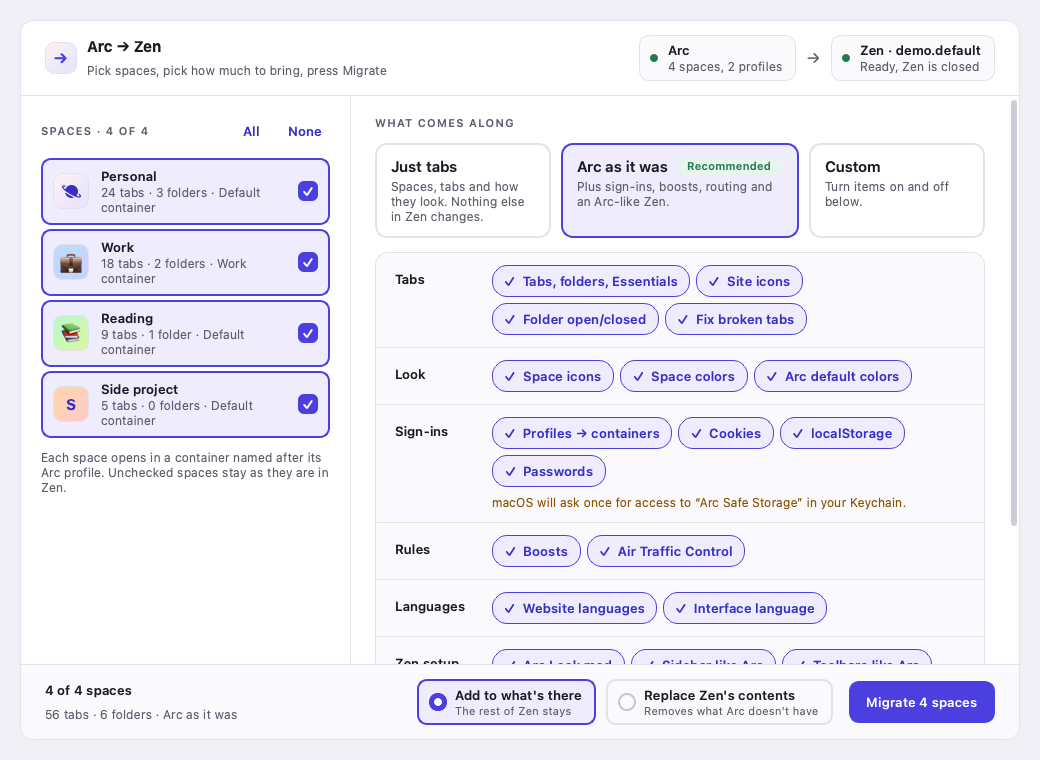
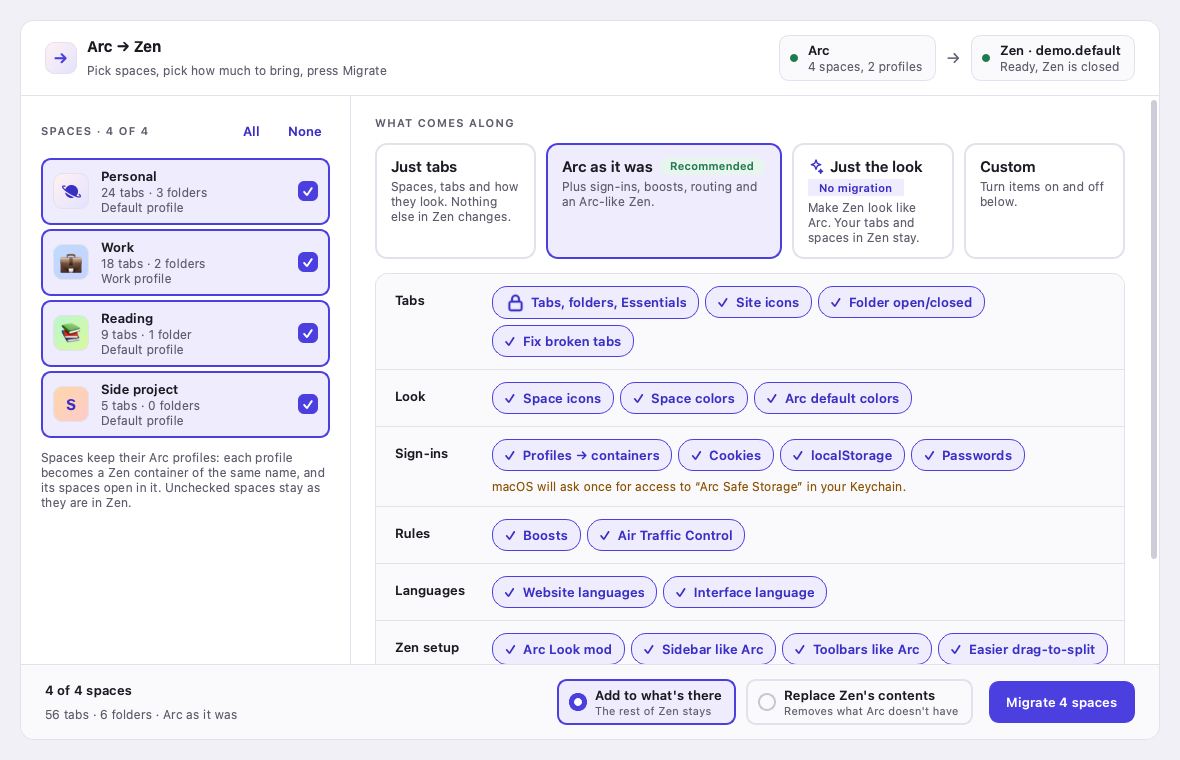
Guide the user when Zen is not found
Without a Zen profile the window now says so: the Zen card in the header is
tinted, a note above the presets offers Download Zen and Choose profile
folder, the footer explains what to do, and the presets, items and Migrate
button stay inactive until a profile is there. A folder without a profile
gets its own message. Coming back to the window looks for Zen, and for Arc
when it was missing, again, so installing and opening Zen is enough.

The README screenshots show the wider window with the Just the look preset.

diff --git a/src/arc2zen/desktop.py b/src/arc2zen/desktop.py
@@ -21,8 +21,8 @@ if sys.stderr is None:
 
 try:
     import psutil
-    from PySide6.QtCore import QByteArray, QEvent, QPoint, QRect, QRectF, QSize, Qt, QThread, QTimer, Signal
-    from PySide6.QtGui import QColor, QIcon, QPainter, QPalette, QPixmap
+    from PySide6.QtCore import QByteArray, QEvent, QPoint, QRect, QRectF, QSize, Qt, QThread, QTimer, QUrl, Signal
+    from PySide6.QtGui import QColor, QDesktopServices, QIcon, QPainter, QPalette, QPixmap
     from PySide6.QtSvg import QSvgRenderer
     from PySide6.QtWidgets import (
         QApplication,
@@ -80,6 +80,7 @@ OK_SOFT = "#e8f5ee"
 OK_LINE = "#bfe3cf"
 WARN = "#8a5100"
 WARN_SOFT = "#fdf3e3"
+WARN_LINE = "#f0d7a8"
 # Notes on a finished run: in the accent color, part of the app rather than an alarm
 NOTE_SOFT = "#f5f4fe"
 NOTE_LINE = "#dcd8fb"
@@ -114,6 +115,9 @@ QFrame#Confirm {{ background: {DANGER_SOFT}; border: 1px solid {DANGER_LINE}; bo
 QFrame#Stat {{ background: {CARD}; border: 1px solid {LINE}; border-radius: 12px; }}
 QFrame#Endpoint {{ background: {CARD}; border: 1px solid {LINE}; border-radius: 10px; }}
 QFrame#Endpoint:hover, QFrame#Endpoint:focus {{ border-color: {ACCENT}; }}
+QFrame#Endpoint[tone="warn"] {{ background: {WARN_SOFT}; border-color: {WARN_LINE}; }}
+QFrame#Endpoint[tone="danger"] {{ background: {DANGER_SOFT}; border-color: {DANGER}; }}
+QFrame#Warning {{ background: {WARN_SOFT}; border: 1px solid {WARN_LINE}; border-radius: 12px; }}
 QFrame#SpaceRow {{ background: transparent; border: 1.5px solid transparent; border-radius: 10px; }}
 QFrame#SpaceRow[checked="true"] {{ background: {ACCENT_SOFT}; border-color: {ACCENT}; }}
 QFrame#SpaceRow:focus {{ border-color: {ACCENT}; }}
@@ -148,6 +152,7 @@ QPushButton#Chip {{ background: transparent; border: 1px solid {LINE}; border-ra
     color: {MUTED}; font-weight: 500; padding: 5px 12px; min-height: 20px; }}
 QPushButton#Chip:hover {{ border-color: #b3afc2; }}
 QPushButton#Chip:checked {{ background: {ACCENT_SOFT}; border-color: {ACCENT}; color: {ACCENT_TEXT}; font-weight: 600; }}
+QPushButton#Chip:disabled {{ background: transparent; border-color: {LINE}; color: #b5b2c2; }}
 QPushButton#Chip[dimmed="true"] {{ background: transparent; border-color: {LINE}; color: #b5b2c2; }}
 QScrollBar:vertical {{ background: transparent; width: 10px; margin: 4px 2px; }}
 QScrollBar::handle:vertical {{ background: #cfccda; border-radius: 3px; min-height: 32px; }}
@@ -595,11 +600,14 @@ class Endpoint(Clickable):
         layout.addWidget(self.dot)
         layout.addLayout(text_column(self.title, self.subtitle))
 
-    def set_status(self, title: str, subtitle: str, color: str, tooltip: str) -> None:
+    def set_status(self, title: str, subtitle: str, color: str, tooltip: str, tone: str = "") -> None:
+        """tone "warn" or "danger" tints the card when what it stands for is missing."""
         self.dot.setStyleSheet(f"background: {color}; border-radius: 4px;")
         self.title.setText(title)
         self.subtitle.setText(subtitle)
         self.setToolTip(tooltip)
+        self.setProperty("tone", tone)
+        restyle(self)
 
 
 class SpaceRow(Clickable):
@@ -719,10 +727,10 @@ class PresetCard(Clickable):
         layout.addStretch(1)
         self.setMinimumHeight(76)
 
-    def set_available(self, available: bool) -> None:
-        """Without Arc only "just the look" can run."""
+    def set_available(self, available: bool, reason: str = "") -> None:
+        """Without Arc only "just the look" can run; without Zen nothing can. reason replaces the hint."""
         self.setEnabled(available)
-        self.hint_label.setText(self.hint if available else "Needs Arc on this Mac.")
+        self.hint_label.setText(reason or self.hint)
         grey = "" if available else f" color: {OFF};"
         self.title_label.setStyleSheet("font-size: 15px; font-weight: 600;" + grey)
         self.hint_label.setStyleSheet(grey)
@@ -734,6 +742,10 @@ class ModeCard(Clickable):
     def __init__(self, title: str, subtitle: str, hint: str, danger: bool = False):
         super().__init__("Mode", title)
         self.danger = danger
+        # Faded while nothing can run, e.g. before Zen is found
+        self.fade = QGraphicsOpacityEffect(self)
+        self.fade.setOpacity(1.0)
+        self.setGraphicsEffect(self.fade)
         self.setProperty("danger", "true" if danger else "false")
         self.setToolTip(hint)
         self.radio = QLabel()
@@ -907,6 +919,7 @@ PRESETS = [
     ("look", "Just the look", "Make Zen look like Arc. Your tabs and spaces in Zen stay.", False),
     ("custom", "Custom", "Turn items on and off below.", False),
 ]
+ZEN_DOWNLOAD_URL = "https://zen-browser.app/download/"
 # The rows "just the look" shows; the others don't apply to it
 LOOK_ROWS = ("Look", "Zen setup", "Safety")
 ZEN_SETUP = [("arc_look_mod", "Arc Look mod"), ("sidebar_mode", "sidebar"), ("toolbar_layout", "toolbars"),
@@ -940,6 +953,8 @@ class MainWindow(QMainWindow):
         self.arc_ok = False
         self.arc_forced = False
         self.zen_spaces: set[str] = set()
+        # "ok", "missing" (no Zen profile on this Mac) or "wrong" (the chosen folder has none)
+        self.zen_state = "ok"
         # What the last run was, for its result screen
         self.run_look = False
         self.run_look_spaces = 0
@@ -975,7 +990,7 @@ class MainWindow(QMainWindow):
         self.zen_combo.currentTextChanged.connect(self.refresh_zen_status)
         self.reload_spaces()
         self.refresh_zen_status()
-        self.go_button.setFocus()
+        (self.download_zen if self.zen_state == "missing" else self.go_button).setFocus()
 
     # ----- building -------------------------------------------------------
 
@@ -1116,6 +1131,7 @@ class MainWindow(QMainWindow):
             self.chips[choice.key] = chip
         else:
             # Always moved: it stays on, shows a padlock and only explains itself
+            self.locked_chips.append(chip)
             chip.setText(" " + choice.label)
             chip.setIcon(QIcon(svg_pixmap(LOCK_SVG, ACCENT_TEXT, 12, max(2.0, self.devicePixelRatioF()))))
             chip.setChecked(True)
@@ -1150,6 +1166,30 @@ class MainWindow(QMainWindow):
         layout = QVBoxLayout(page)
         layout.setContentsMargins(24, 20, 24, 24)
         layout.setSpacing(14)
+        self.zen_banner = frame("Warning")
+        banner = QHBoxLayout(self.zen_banner)
+        banner.setContentsMargins(16, 14, 16, 14)
+        banner.setSpacing(14)
+        mark = QLabel("!")
+        mark.setFixedSize(36, 36)
+        mark.setAlignment(Qt.AlignCenter)
+        mark.setStyleSheet(f"background: {WINDOW}; border: 1px solid {WARN_LINE}; border-radius: 10px;"
+                           f" color: {WARN}; font-size: 18px; font-weight: 700;")
+        banner.addWidget(mark, 0, Qt.AlignTop)
+        self.zen_banner_title = label()
+        self.zen_banner_title.setStyleSheet("font-weight: 600;")
+        self.zen_banner_text = label("", "muted", wrap=True)
+        banner.addLayout(text_column(self.zen_banner_title, self.zen_banner_text), 1)
+        self.download_zen = QPushButton("Download Zen")
+        self.download_zen.setObjectName("Primary")
+        self.download_zen.clicked.connect(lambda: QDesktopServices.openUrl(QUrl(ZEN_DOWNLOAD_URL)))
+        banner.addWidget(self.download_zen, 0, Qt.AlignVCenter)
+        choose_zen = QPushButton("Choose profile folder…")
+        choose_zen.setObjectName("Accent")
+        choose_zen.clicked.connect(self.browse_zen)
+        banner.addWidget(choose_zen, 0, Qt.AlignVCenter)
+        layout.addWidget(self.zen_banner)
+
         layout.addWidget(label("WHAT COMES ALONG", "caps"))
 
         presets = QHBoxLayout()
@@ -1176,6 +1216,7 @@ class MainWindow(QMainWindow):
         layout.addWidget(self.look_note)
 
         self.chips: Dict[str, QPushButton] = {}
+        self.locked_chips: List[QPushButton] = []
         self.notes: List[tuple[QLabel, tuple]] = []
         card = frame("Card")
         rows = QVBoxLayout(card)
@@ -1506,9 +1547,16 @@ class MainWindow(QMainWindow):
             profile = resolve_zen_profile(text)
         except Exception:
             self.zen_spaces = set()
-            self.zen_endpoint.set_status("Zen", "Not a Zen profile", DANGER,
-                                         f"{text}\nChoose a profile folder or Zen's data folder.")
+            # Nothing chosen and nothing found means Zen isn't installed or never opened
+            self.zen_state = "wrong" if text else "missing"
+            if text:
+                self.zen_endpoint.set_status("Zen", "No Zen profile here", DANGER,
+                                             f"{text}\nChoose a profile folder or Zen's data folder.", "danger")
+            else:
+                self.zen_endpoint.set_status("Zen", "Not found on this Mac", OFF,
+                                             "Install Zen and open it once, or choose its profile folder.", "warn")
         else:
+            self.zen_state = "ok"
             title = f"Zen · {profile.name}"
             self.zen_spaces = zen_space_names(profile)
             if is_zen_profile_in_use(profile):
@@ -1678,9 +1726,28 @@ class MainWindow(QMainWindow):
         preset = self.preset()
         for key, card in self.preset_cards.items():
             card.set_checked(key == preset)
-            card.set_available(self.arc_ok or key == "look")
+            zen_ok = self.zen_state == "ok"
+            needs_arc = not self.arc_ok and key != "look"
+            card.set_available(zen_ok and not needs_arc, "Needs Arc on this Mac." if needs_arc else "")
         self.add_mode.set_checked(not v["nuke"])
         self.replace_mode.set_checked(v["nuke"])
+
+        zen_ok = self.zen_state == "ok"
+        # Until Zen is found nothing can run, so nothing can be picked either
+        for chip in self.chips.values():
+            chip.setEnabled(zen_ok)
+        for chip in self.locked_chips:
+            chip.setEnabled(zen_ok)
+        for mode in (self.add_mode, self.replace_mode):
+            mode.setEnabled(zen_ok)
+            mode.fade.setOpacity(1.0 if zen_ok else 0.45)
+        missing = self.zen_state == "missing"
+        self.zen_banner_title.setText("Zen isn't on this Mac yet" if missing else "This folder has no Zen profile")
+        self.zen_banner_text.setText(
+            "Install Zen and open it once so it creates a profile, then come back. Or point to a profile "
+            "folder if Zen keeps it somewhere else." if missing else
+            "Pick a Zen profile folder, or Zen's data folder with profiles.ini.")
+        self.download_zen.setVisible(missing)
 
         look = self.look_mode
         first = True
@@ -1732,7 +1799,15 @@ class MainWindow(QMainWindow):
         if look:
             title = "Zen keeps its tabs and spaces"
             text, color = (" · ".join(parts), MUTED) if parts else ("Pick something to apply.", WARN)
+        title_color = TEXT
+        if not zen_ok:
+            title_color = WARN if missing else DANGER
+            title, color = ("Zen isn't set up yet", MUTED) if missing else ("No Zen profile in this folder", MUTED)
+            text = ("Install Zen and open it once, then come back — or choose its profile folder in the Zen card "
+                    "above." if missing else
+                    "Choose a Zen profile folder, or Zen's data folder with profiles.ini, in the Zen card above.")
         if self.confirming:
+            title_color = TEXT
             title = f"Replace everything in {self.zen_target()}?"
             text = ("Tabs, folders, bookmarks, workspaces and containers Arc doesn't have will be removed. "
                     "You can roll back afterwards.")
@@ -1751,11 +1826,15 @@ class MainWindow(QMainWindow):
         elif self.finished:
             title = "Couldn't apply the look" if self.run_look else "Migration stopped"
             text, color = "Roll back, or fix the problem and start over.", DANGER
+        if self.running or self.finished:
+            title_color = TEXT
         self.summary_title.setText(title)
+        self.summary_title.setStyleSheet(f"font-weight: 600; color: {title_color};")
         self.summary_text.setText(text)
         self.summary_text.setStyleSheet(f"color: {color}; font-size: 12px;")
 
         idle = not self.running and not self.finished
+        self.zen_banner.setVisible(idle and not zen_ok)
         # In "just the look" the spaces matter only for their icons and colors
         spaces_matter = not look or not self.arc_ok or v["workspace_icons"] or v["workspace_themes"]
         self.aside.setEnabled(idle and spaces_matter)
@@ -1771,7 +1850,7 @@ class MainWindow(QMainWindow):
         self.restart_button.setVisible(finished)
         self.exit_button.setVisible(finished)
         self.go_button.setVisible(idle)
-        self.go_button.setEnabled(bool(parts) if look else bool(chosen))
+        self.go_button.setEnabled(zen_ok and (bool(parts) if look else bool(chosen)))
         self.go_button.setIcon(QIcon(svg_pixmap(SPARKLES_SVG, "#ffffff", 16, max(2.0, self.devicePixelRatioF())))
                                if look else QIcon())
         if look:
@@ -2130,6 +2209,26 @@ class MainWindow(QMainWindow):
             widget.setVisible(False)
         self.refresh()
         QTimer.singleShot(0, self.place_result)
+
+    def changeEvent(self, event) -> None:
+        # Back in the window after installing Zen or Arc: look for them again
+        if event.type() == QEvent.ActivationChange and self.isActiveWindow() and not self.running and not self.finished:
+            QTimer.singleShot(0, self.rediscover_profiles)
+        super().changeEvent(event)
+
+    def rediscover_profiles(self) -> None:
+        """Fill in Zen or Arc when none was found before; a folder picked by hand is left alone."""
+        for combo, missing, discover in ((self.zen_combo, self.zen_state == "missing", discover_zen_profiles),
+                                         (self.arc_combo, not self.arc_ok and not self.arc_combo.currentText(),
+                                          discover_arc_profiles)):
+            if not missing:
+                continue
+            found = discover()
+            if found:
+                combo.clear()
+                for profile in found:
+                    combo.addItem(format_path(profile))
+                combo.setEditText(format_path(found[0]))
 
     def closeEvent(self, event) -> None:
         if self.running or self.rollback_state == "running":

diff --git a/README.md b/README.md
@@ -70,7 +70,10 @@ Pick the archive for your OS:
 Everything is on one screen:
 
 - **Header**: the Arc data folder and the Zen profile are found automatically,
-  with their status; click either to pick another one.
+  with their status; click either to pick another one. Without a Zen profile
+  nothing can run yet: a note above the presets offers **Download Zen** and
+  **Choose profile folder…**, and once Zen is installed and opened, coming back
+  to the window finds it.
 - **Spaces** (left): pick the Arc spaces to migrate; each row shows the
   space's icon, colors, tab and folder counts, and its Arc profile. As in Arc,
   spaces stay bound to their profile: each profile becomes one Zen container
